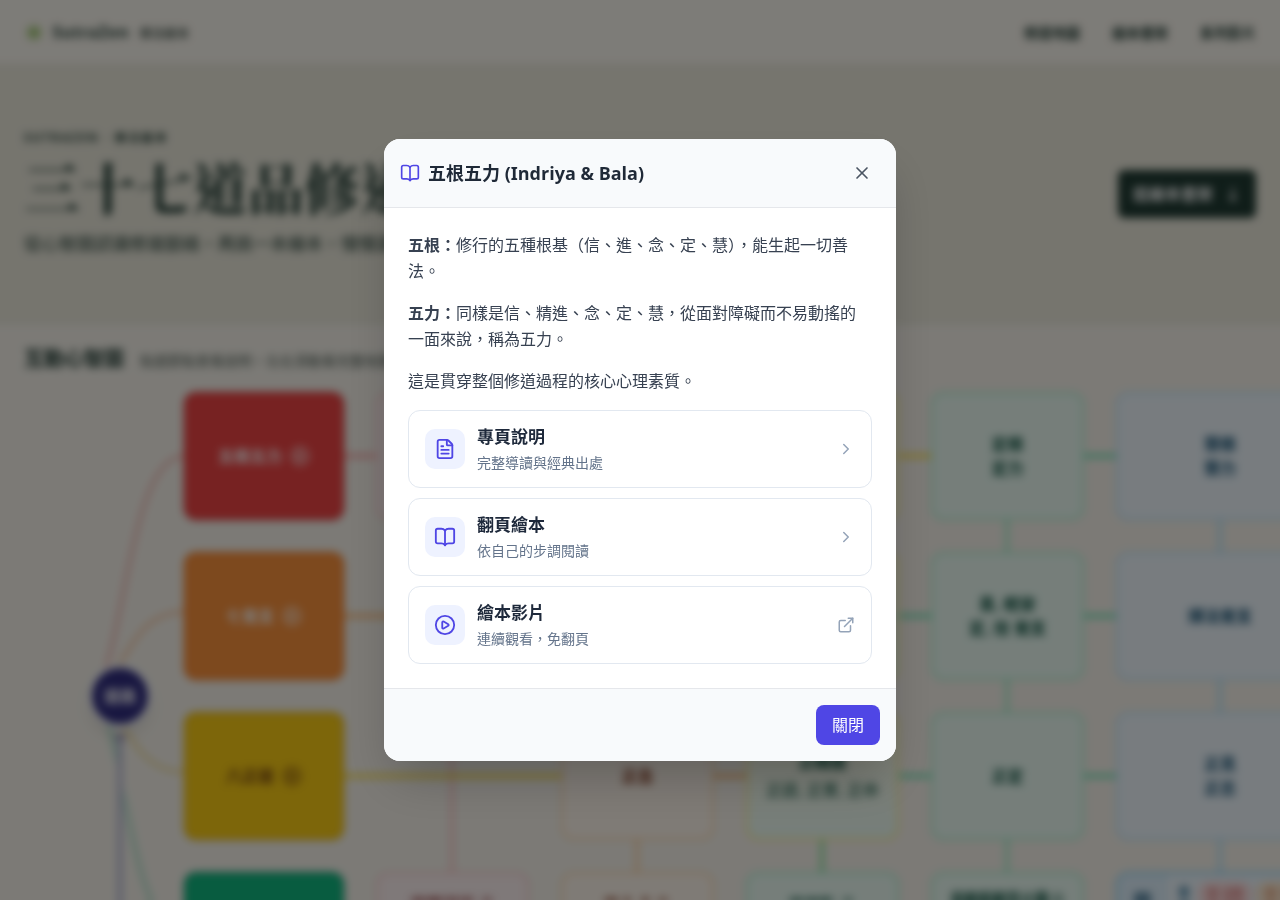
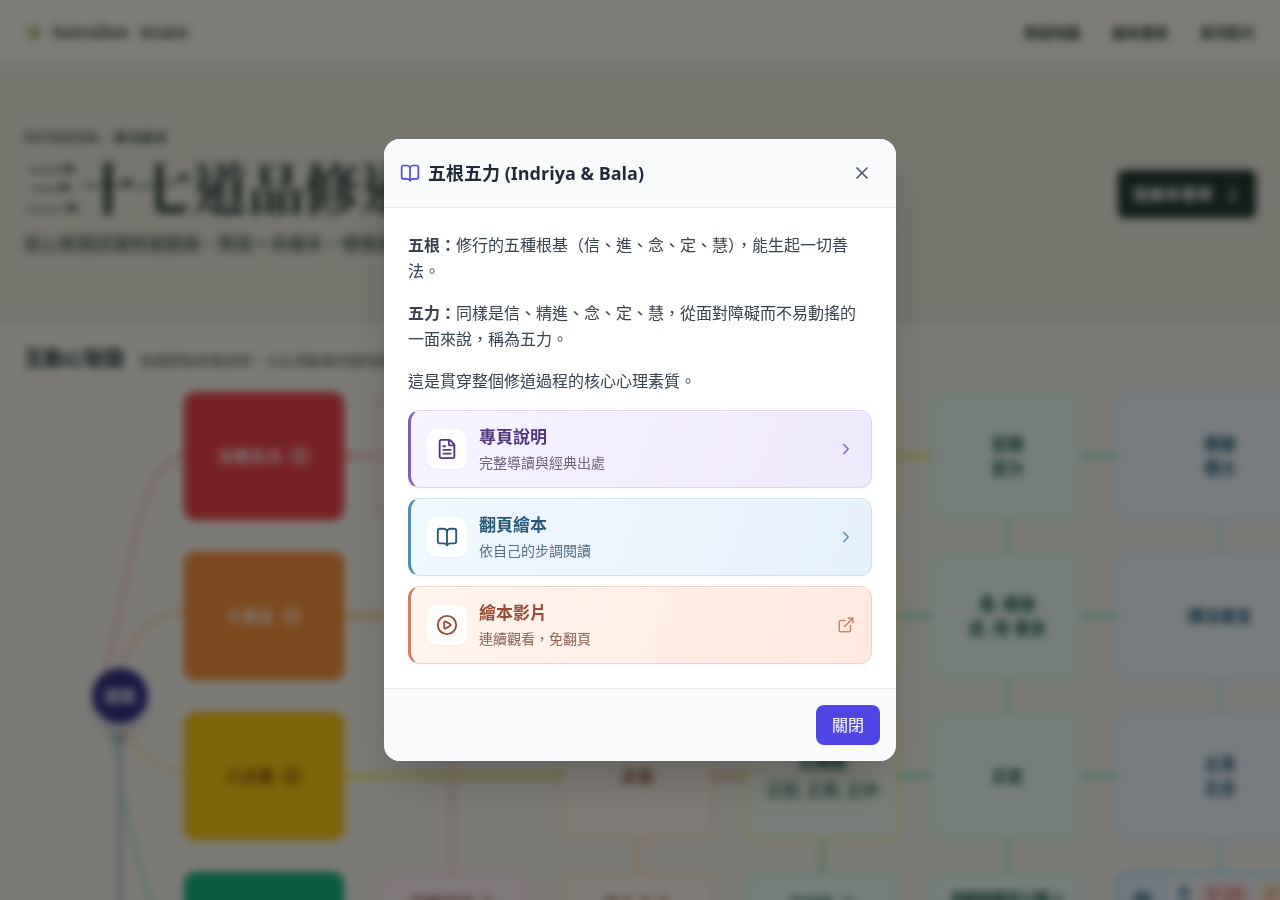
style: add soft colors to map entry preview cards

Changed region(s): [[0.3125, 0.5289, 0.6875, 0.7467], [0.3125, 0.4667, 0.4688, 0.5289], [0.3125, 0.56, 0.4688, 0.6222]]

diff --git a/map-topic-preview.css b/map-topic-preview.css
@@ -1,20 +1,37 @@
 /* Review-only prototype: currently used by the Five Roots/Powers map dialog. */
 .sz-topic-resources { display:grid; gap:10px; margin-top:22px; }
 .sz-topic-resource {
+  --card-bg:linear-gradient(110deg,#f7f3ff,#eee8fc);
+  --card-border:#ded2f3; --card-accent:#8060b6;
+  --card-ink:#523780; --card-muted:#716180;
   display:flex; align-items:center; gap:12px; min-height:78px;
-  padding:14px 16px; border:1px solid #e2e8f0; border-radius:12px;
-  background:#fff; color:#1e293b; text-decoration:none;
-  transition:background-color .15s,border-color .15s,box-shadow .15s;
+  padding:14px 16px; border:1px solid var(--card-border);
+  border-inline-start:3px solid var(--card-accent); border-radius:12px;
+  background:var(--card-bg); color:var(--card-ink); text-decoration:none;
+  box-shadow:inset 0 1px 0 rgb(255 255 255 / 70%),0 2px 6px rgb(30 41 59 / 3%);
+  transition:border-color .15s,box-shadow .15s;
 }
-.sz-topic-resource:hover { background:#f8faff; border-color:#a5b4fc; }
-.sz-topic-resource:focus-visible { outline:3px solid #818cf8; outline-offset:3px; }
+.sz-topic-resource:nth-child(2) {
+  --card-bg:linear-gradient(110deg,#f0f8ff,#e4f0fb);
+  --card-border:#cbdfee; --card-accent:#4d8eae;
+  --card-ink:#285879; --card-muted:#526f85;
+}
+.sz-topic-resource:nth-child(3) {
+  --card-bg:linear-gradient(110deg,#fff4ee,#ffe9df);
+  --card-border:#f0d2c5; --card-accent:#cd8166;
+  --card-ink:#974b34; --card-muted:#886354;
+}
+.sz-topic-resource:hover { border-color:var(--card-accent); box-shadow:0 3px 10px rgb(30 41 59 / 8%); }
+.sz-topic-resource:focus-visible { outline:3px solid var(--card-accent); outline-offset:3px; }
 .sz-topic-resource-icon {
   display:flex; align-items:center; justify-content:center; flex:0 0 40px;
-  width:40px; height:40px; border-radius:10px; background:#eef2ff; color:#4f46e5;
+  width:40px; height:40px; border-radius:10px;
+  background:rgb(255 255 255 / 80%); border:1px solid rgb(255 255 255 / 90%);
+  color:var(--card-ink); box-shadow:0 1px 3px rgb(30 41 59 / 4%);
 }
 .sz-topic-resource-icon svg { width:22px; height:22px; }
 .sz-topic-resource-copy { flex:1; min-width:0; }
-.sz-topic-resource-copy strong { display:block; font-size:17px; line-height:1.4; font-weight:700; }
-.sz-topic-resource-copy > span { display:block; margin-top:3px; color:#64748b; font-size:14px; line-height:1.5; }
-.sz-topic-resource-arrow { flex:0 0 18px; width:18px; height:18px; color:#94a3b8; }
+.sz-topic-resource-copy strong { display:block; color:var(--card-ink); font-size:17px; line-height:1.4; font-weight:700; }
+.sz-topic-resource-copy > span { display:block; margin-top:3px; color:var(--card-muted); font-size:14px; line-height:1.5; }
+.sz-topic-resource-arrow { flex:0 0 18px; width:18px; height:18px; color:var(--card-accent); }
 @media (prefers-reduced-motion:reduce) { .sz-topic-resource { transition:none; } }

diff --git a/docs/previews/map-three-links/README.md b/docs/previews/map-three-links/README.md
@@ -8,8 +8,8 @@
 2. 翻頁繪本：依自己的步調閱讀，直接連現有book/index.html。
 3. 繪本影片：連續觀看，免翻頁；保留原影片https://youtu.be/EzZOF8vQS2k及另開分頁，外連符號提示。
 
-圖示／箭頭／白底／淡邊框沿用原視覺語言，無額外長文。三入口CSS僅作用sz-topic-resources，不影響其他彈窗。index.html只替換五根五力該節點的HTML並載入樣式；全體其他dhammaData、14個影片iframe與書架／繪本不動。
+依作者後續意見，三張卡片分別採淡紫／淡藍／淡珊瑚漸層底色、同色細邊與左側色線、半透明白色圖示底框及輕微陰影，無額外長文。此輪只調整卡片樣式，原文案與連結不改。輔助文字在各漸層端點的最低對比度分別為4.72、4.57、4.54。三入口CSS僅作用sz-topic-resources，不影響其他彈窗。index.html只替換五根五力該節點的HTML並載入樣式；全體其他dhammaData、14個影片iframe與書架／繪本不動。
 
 五尺寸360×800、390×844、768×1024、1024×768、1280×900驗證三項文案／連結、導讀與閱讀器實際導航、影片原網址及開新分頁、關閉按鍵、無水平溢出、90vh彈窗限制；無JS／本機HTTP錯誤。影片只測連結動作，未測YouTube播放。桌機／平板／手機各存彈窗與全畫面；小螢幕沿用內容區捲動與固定標題／關閉。首頁CDN在測試使用既有下載副本，非外站CDN驗收；實體Safari未測。
 
-確認後再規劃其他節點套用；本輪不改正式網站、不合併main、不發布Pages。validation.json及PNG／WebP為實際瀏覽器截圖；檢查腳本暫存在/tmp/capture-map-three-links.py，未新增永久測試。
+確認後再規劃其他節點套用；本輪不改正式網站、不合併main、不發布Pages。validation.json及PNG／WebP為實際瀏覽器截圖；檢查腳本暫存在/tmp/capture-map-three-links-colored.py，未新增永久測試。

diff --git a/docs/HANDOFF.md b/docs/HANDOFF.md
@@ -2,6 +2,8 @@
 
 作者明確指定此為重要改動，先試作截圖、不要發布。從最新main02843bde建立preview/map-three-entry-links，僅五根五力總說試排三入口：專頁說明（完整導讀與經典出處）、翻頁繪本（依自己的步調閱讀）、繪本影片（連續觀看，免翻頁）。上方三段精簡說明完全不改，原影片ID與新分頁行為保留，導讀／閱讀器直接使用既有路徑。三張同樣式可點卡片，以圖示／箭頭區分，取代舊影片大框及合併導讀繪本連結。
 
+作者後續要求加底色：專頁說明淡紫、翻頁繪本淡藍、繪本影片淡珊瑚，搭配同色細邊／左側色線與白色圖示底框。只調整樣式，文案、排列、連結及其他內容不改；五尺寸已重新檢查並更新截圖。
+
 map-topic-preview.css僅作用新卡片；dhammaData其他節點、所有十四本與iframe不動。五尺寸與三連結／關閉／無溢出驗證通過，實際截圖與限制見docs/previews/map-three-links/。影片未測實際播放、實體Safari未測。作者確認前不得將此試排合併main或發布，不能沿用前幾輪發布授權。確認後再決定其他節點完整套用，不將單節點prototype當成全站已改。
 
 ---
